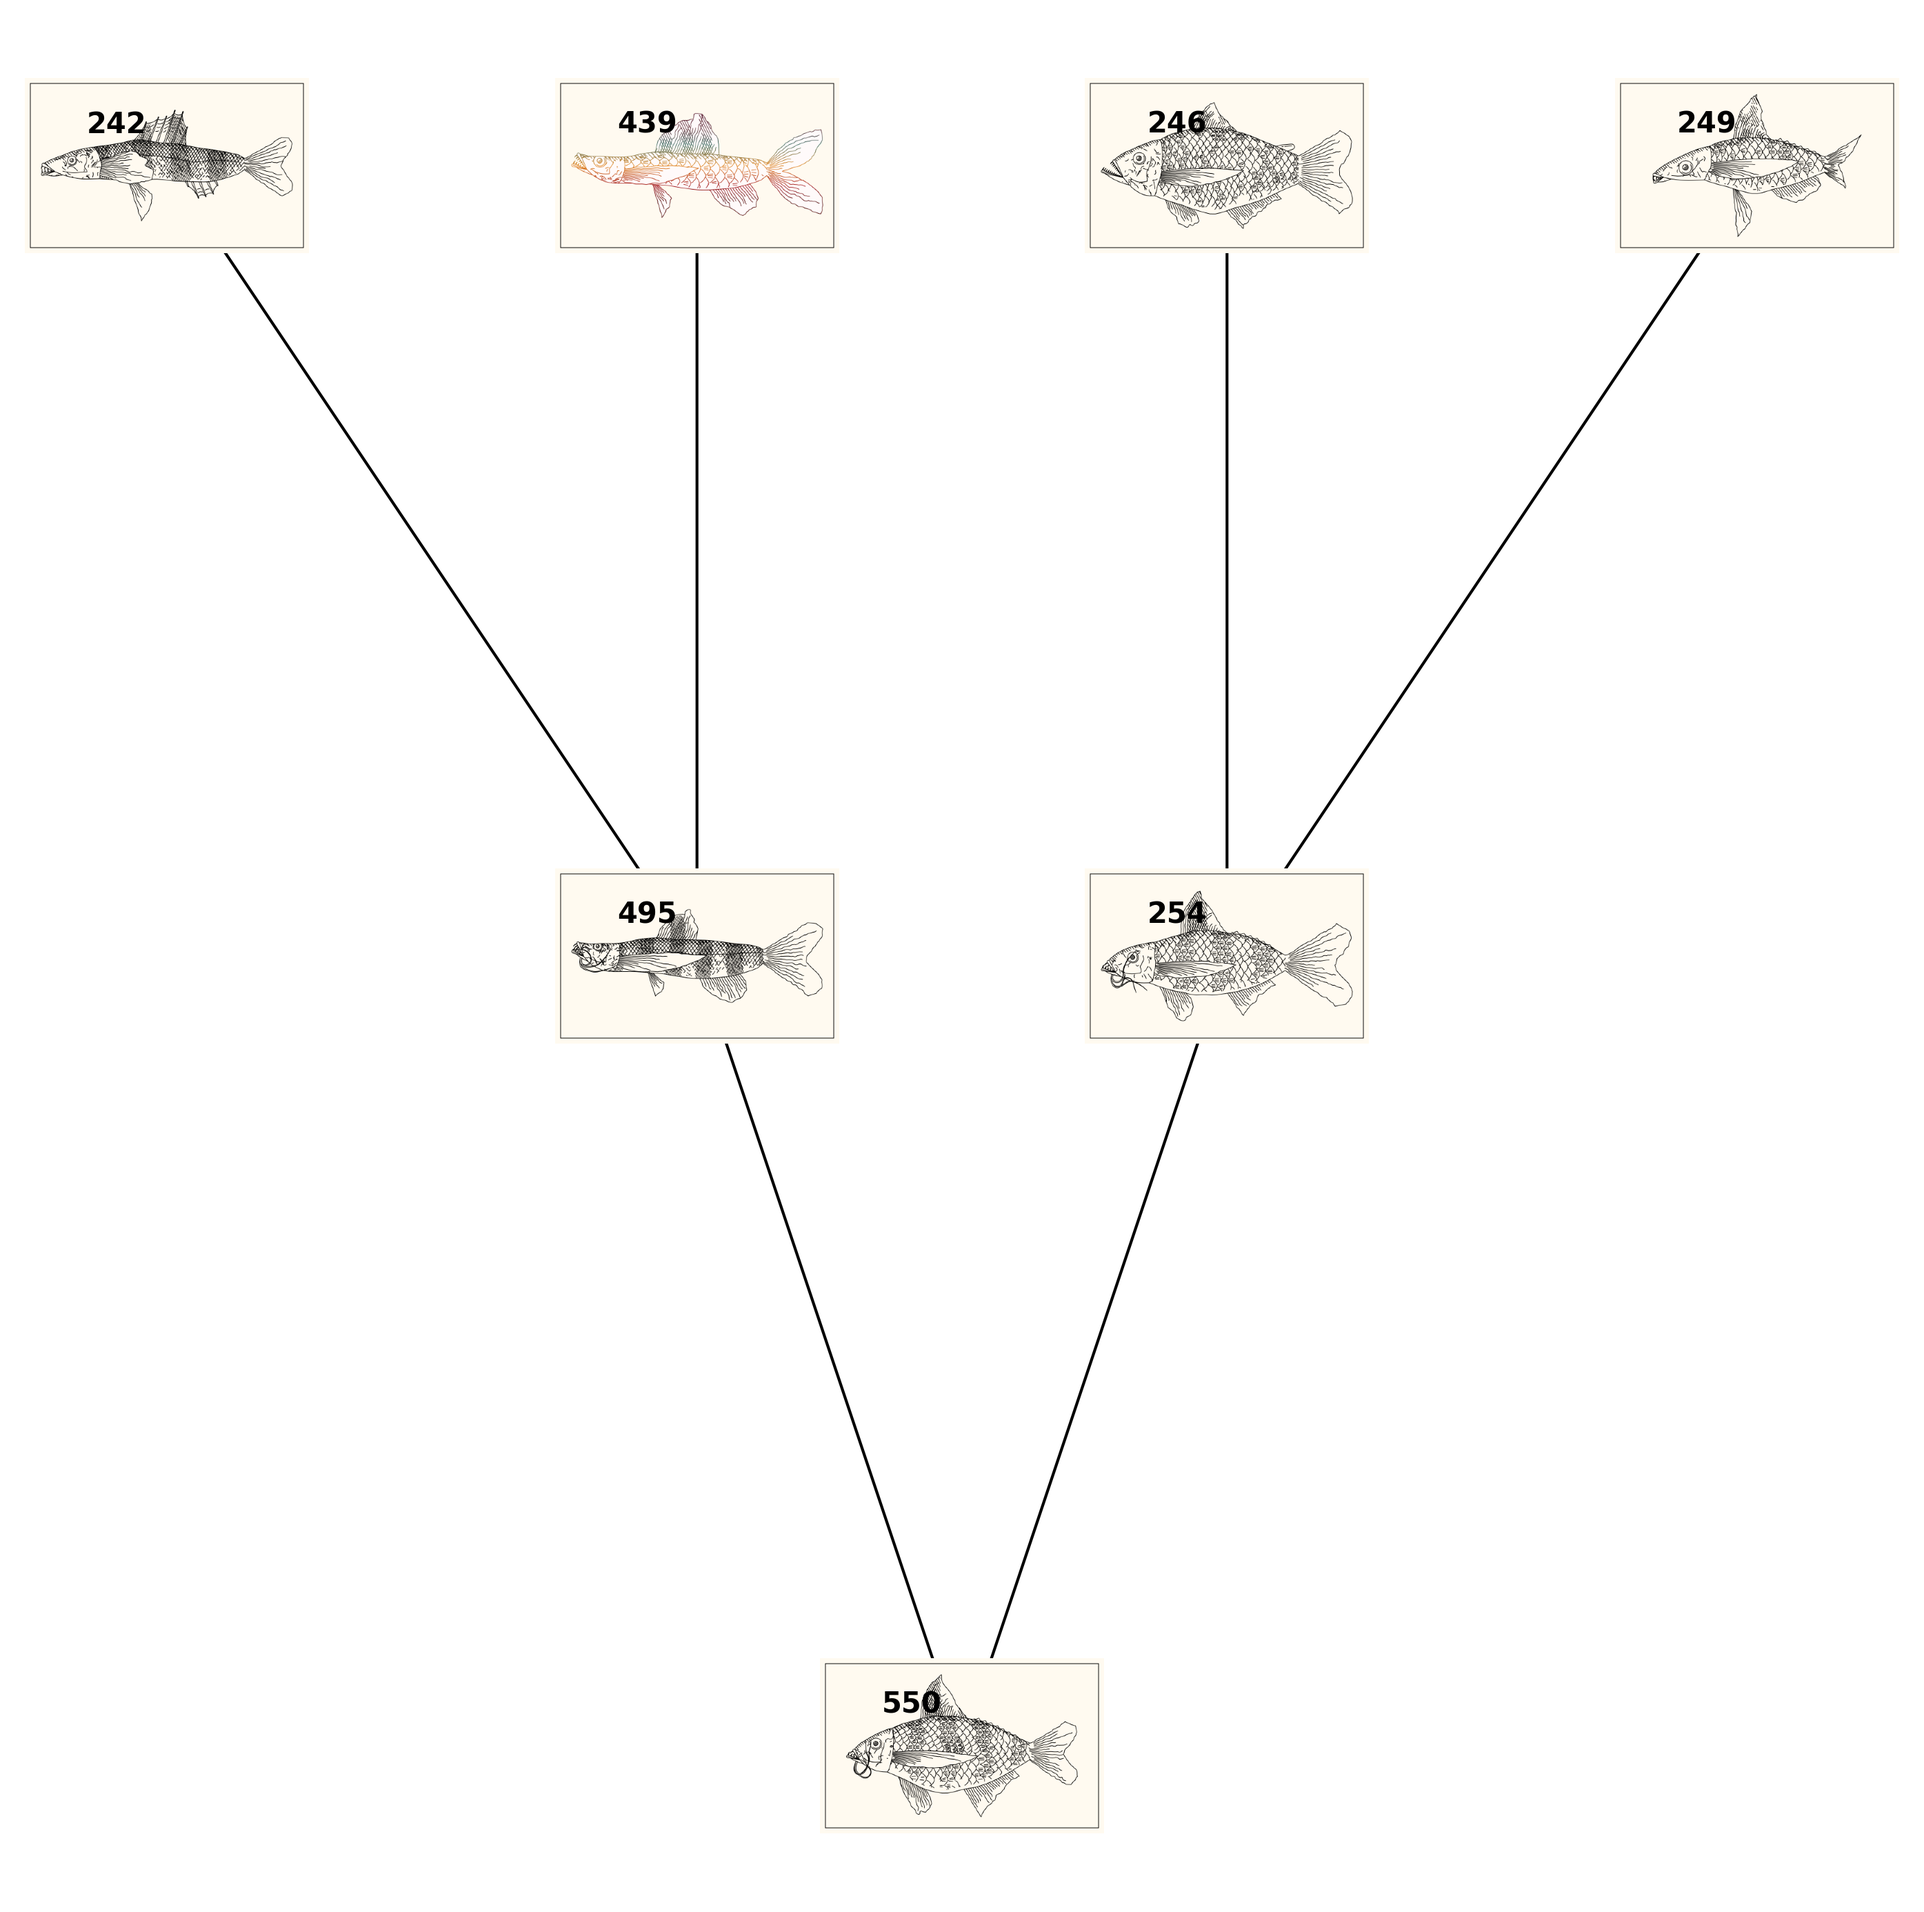
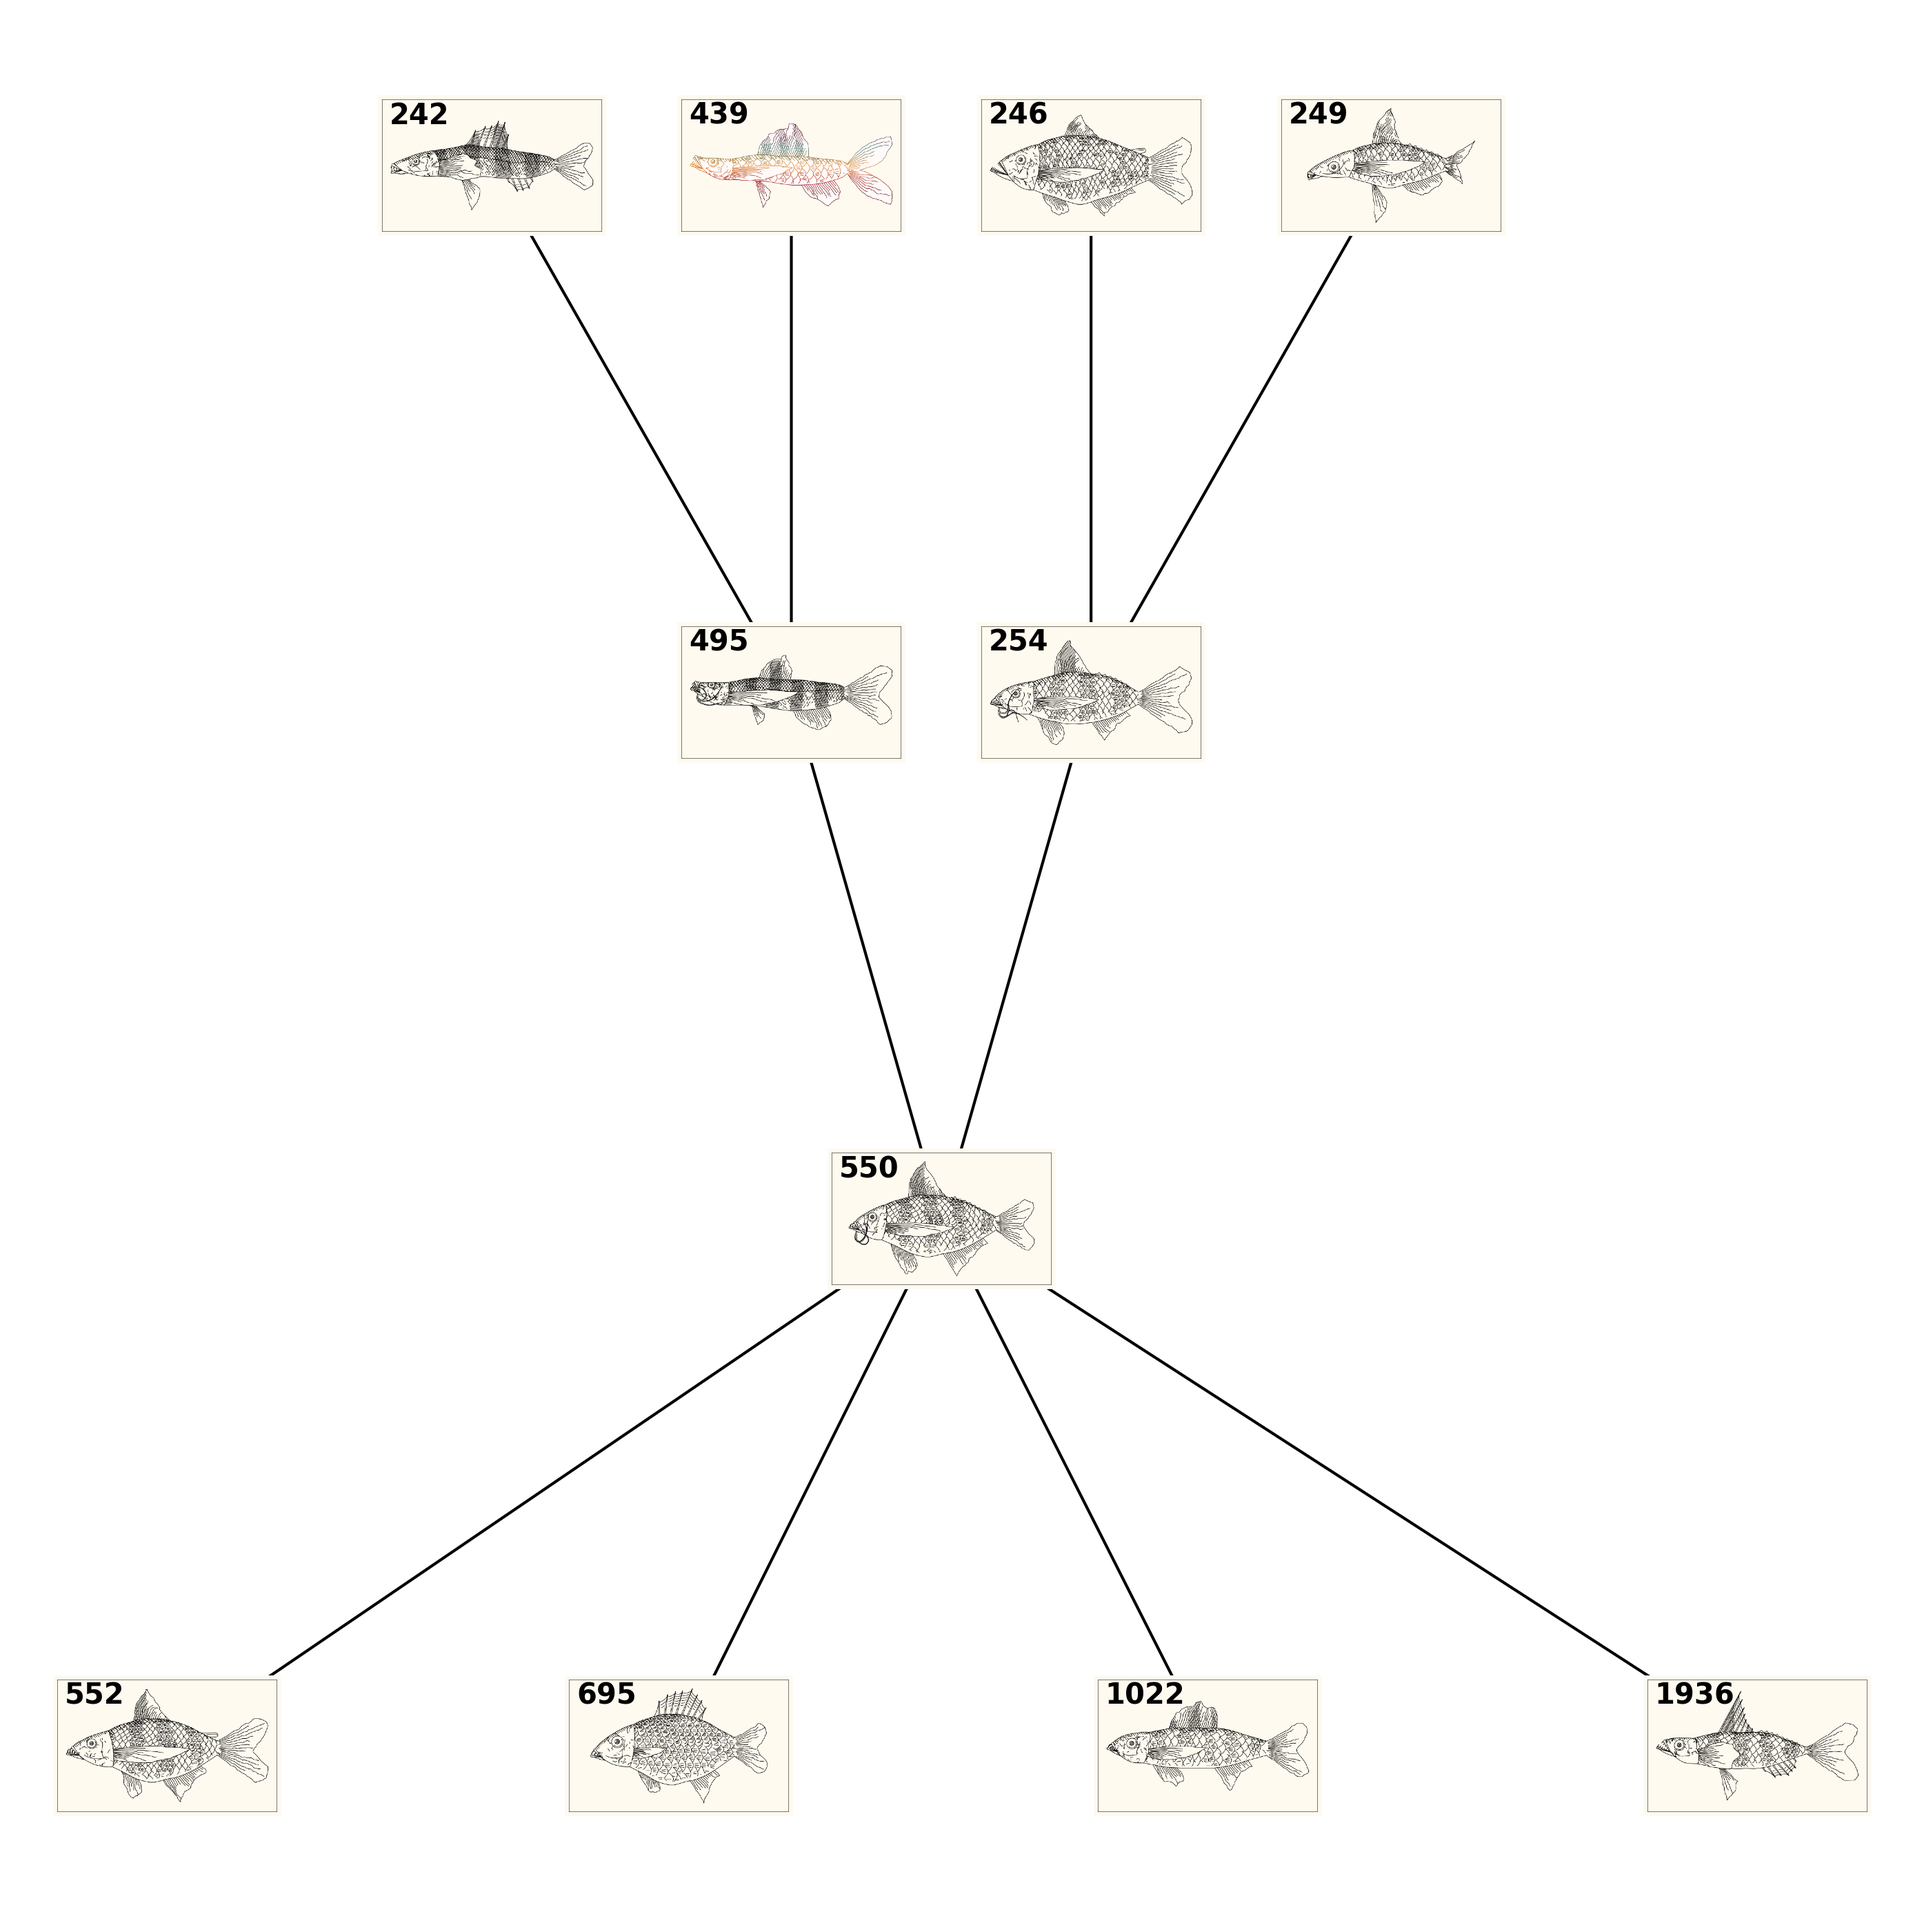
image temp fix

diff --git a/app.py b/app.py
@@ -222,8 +222,8 @@ def index():
                 img = Image.open(image_path)
 
                 # Calculate the size of the image in the graph coordinates
-                node_width = (x_lim[1] - x_lim[0]) / (len(G.nodes)**0.5)  # Adjust as needed
-                node_height = (y_lim[1] - y_lim[0]) / (len(G.nodes)**0.5)  # Adjust as needed
+                node_width = (x_lim[1] - x_lim[0]) / (len(G.nodes)**0.7)  # Adjust as needed
+                node_height = (y_lim[1] - y_lim[0]) / (len(G.nodes)**0.7)  # Adjust as needed
 
                 # Calculate the zoom factor
                 zoom_factor_width = node_width / img.size[0]
@@ -236,8 +236,8 @@ def index():
                 ax.add_artist(ab)
 
                 # Adjust these offsets based on the zoom factor to position the text correctly
-                text_offset_x = (img.size[0] * zoom_factor) * -0.11  # Left from the center of the image
-                text_offset_y = (img.size[1] * zoom_factor) * 0.04   # Above the center of the image
+                text_offset_x = (img.size[0] * zoom_factor) * -0.31  # Left from the center of the image
+                text_offset_y = (img.size[1] * zoom_factor) * 0.1   # Above the center of the image
 
                 # Place text at the adjusted position
                 ax.text(xi + text_offset_x, yi + text_offset_y, f'{node}', 
